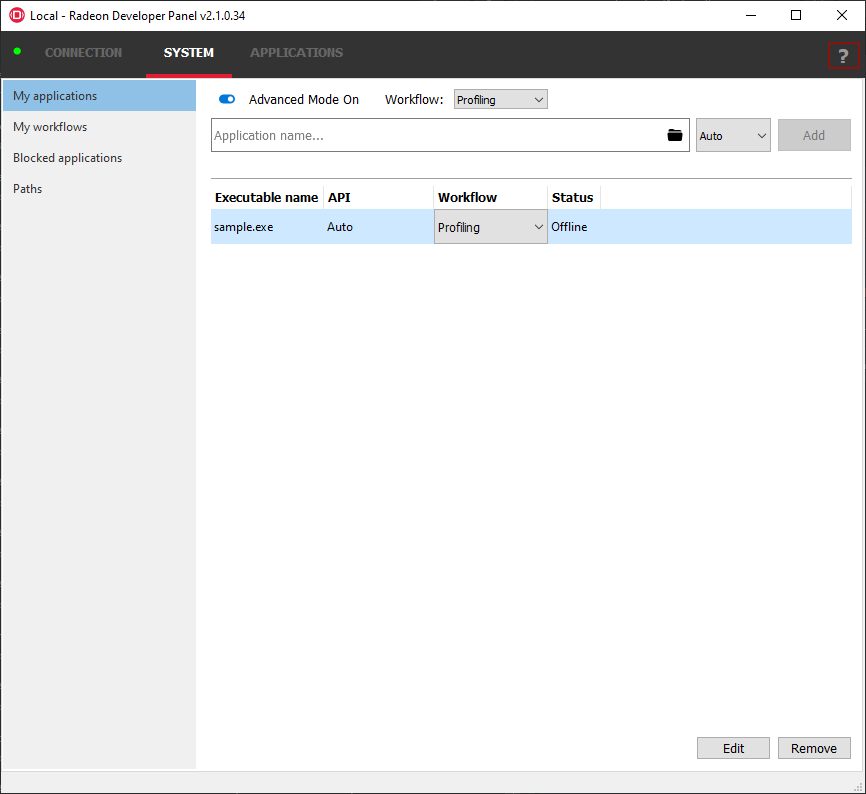
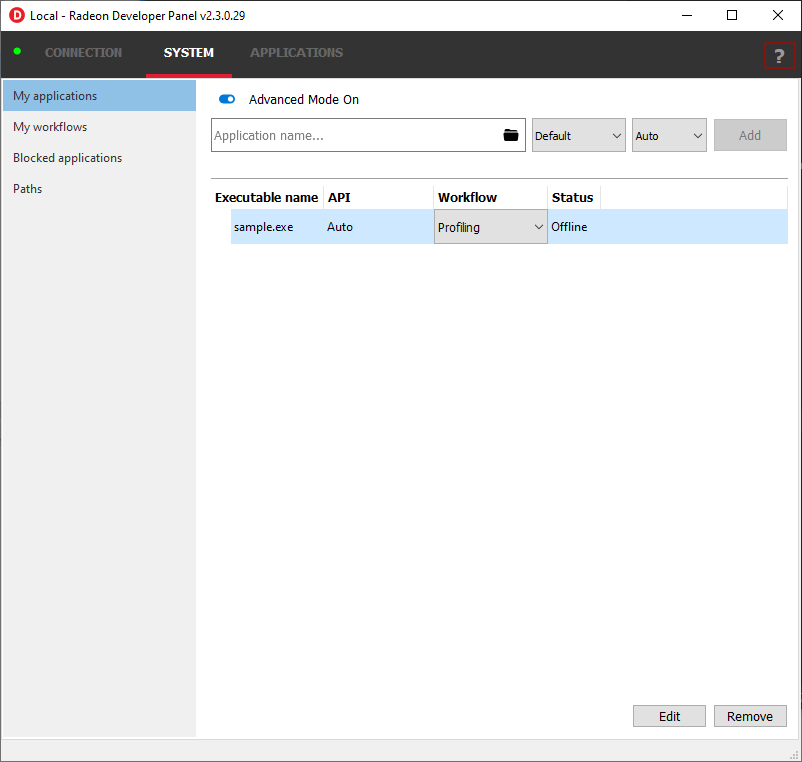
Update documentation for v2.3 release
This commit updates the RDP documentation for the v2.3 release

Changed region(s): [[0.0, 0.0, 1.0, 1.0], [0.904, 0.0, 0.9352, 0.0302]]

diff --git a/docs/source/conf.py b/docs/source/conf.py
@@ -46,7 +46,7 @@ master_doc = 'index'
 
 # General information about the project.
 project = u'Radeon Developer Panel'
-copyright = u'2017-2020, Advanced Micro Devices, Inc. All rights reserved.'
+copyright = u'2017-2021, Advanced Micro Devices, Inc. All rights reserved.'
 author = u'AMD Developer Tools'
 
 # The version info for the project you're documenting, acts as replacement for
@@ -54,9 +54,9 @@ author = u'AMD Developer Tools'
 # built documents.
 #
 # The short X.Y version.
-version = u'2.2.0'
+version = u'2.3.0'
 # The full version, including alpha/beta/rc tags.
-release = u'2.2.0'
+release = u'2.3.0'
 
 # The language for content autogenerated by Sphinx. Refer to documentation
 # for a list of supported languages.

diff --git a/docs/source/index.rst b/docs/source/index.rst
@@ -36,8 +36,9 @@ and GCN hardware. The suite is comprised of the following software:
 
    **RMV documentation:** https://radeon-memory-visualizer.readthedocs.io/en/latest/
 
-   **Note:** By default, the driver allocates a maximum of 128 MB video
-   memory per Shader Engine to capture RGP profiles.
+   **Note:** By default, the driver allocates a maximum of 75 MB video
+   memory per Shader Engine to capture RGP profiles. The driver allocates
+   300 MB video memory for the single shader engine with instruction tracing enabled.
 
 Graphics APIs, RDNA and GCN hardware, and operating systems
 ---------------------------------------------------------------------
@@ -70,9 +71,9 @@ Graphics APIs, RDNA and GCN hardware, and operating systems
 
 -  Windows® 10
 
--  Ubuntu 18.04.3 LTS (Vulkan only)
+-  Ubuntu 18.04 LTS (Vulkan only)
 
--  Ubuntu 20.04.1 LTS (Vulkan only)
+-  Ubuntu 20.04 LTS (Vulkan only)
 
 Compute APIs, RDNA and GCN hardware, and operating systems
 --------------------------------------------------------------------
@@ -82,6 +83,8 @@ Compute APIs, RDNA and GCN hardware, and operating systems
 -  OpenCL
 
 \ **Supported RDNA and GCN hardware**
+
+-  AMD Radeon RX 6000 series
 
 -  AMD Radeon RX 5000 series
 
@@ -304,6 +307,8 @@ The profiling UI has the following elements:
 - **Capture profile** - Captures a profile and writes to disk
 
 - **Enable instruction tracing** - Enables capturing detailed instruction data
+
+- **Collect cache counters** - Enables capturing GPU cache counter data
 
 - **Recently collected profiles** - Displays any recently collected profiles found in the output directory
 
@@ -605,18 +610,28 @@ connections list and click the Connect button again.
 Missing Timing Data for DirectX 12 Applications
 -----------------------------------------------
 
-To collect complete profile datasets for DirectX 12 applications, the
-user account in Windows needs to be associated with the “Performance Log
-Users” group. If these privileges aren't configured properly, profiles
+To collect complete profile datasets for DirectX 12 applications, two
+additional actions must be performed:
+
+1) The user account in Windows needs to be associated with the
+“Performance Log Users” group.
+
+2) The following REG_DWORD registry key must be set:
+**HKEY_LOCAL_MACHINE\\Software\\AMD\\RadeonTools\\RgpEnableEtw=1**
+
+If these two privileges aren't configured properly, profiles
 collected under the user’s account may not include all timing data for
 GPU Sync objects.
 
-A batch file is provided to add the current user to the group
+A batch file is provided to perform the above two actions
 (scripts\\AddUserToGroup.bat). The batch file should be run as
 administrator (Right click on file and select “Run as Administrator”).
 The script’s output is shown below:
 
 .. image:: media/Bat_1.png
+
+The actions performed by the batch fie can be undone by running the
+batch file with a **-\\-cleanup** command line switch.
 
 Alternatively, to manually add the active user to the proper group,
 follow these steps:
